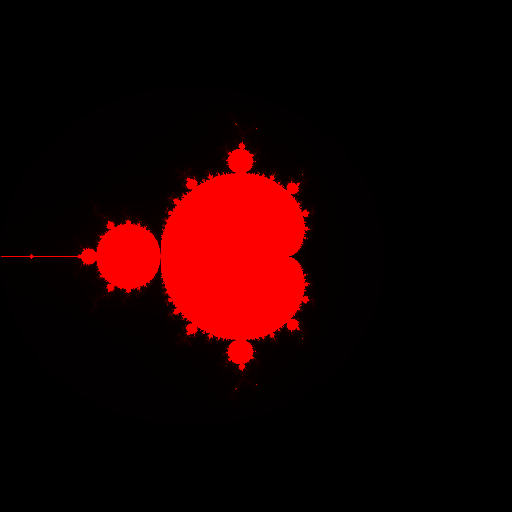
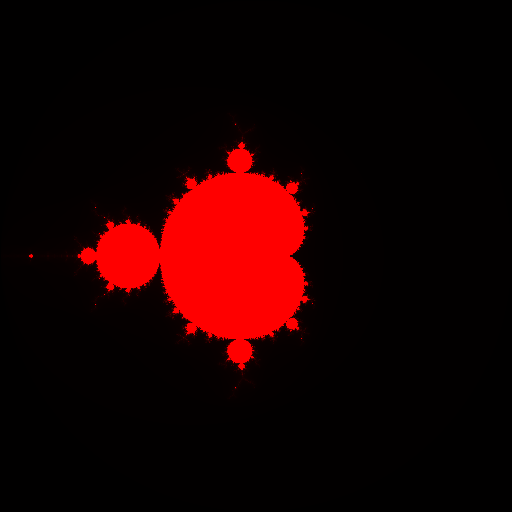
class set

diff --git a/untitled.py b/untitled.py
@@ -1,0 +1,6 @@
+#Class version 
+xmin, xmax = -2.0, 2.0
+ymin, ymax = -2.0, 2.0
+
+imgx, imgy = 512, 512
+maxIt = 256
